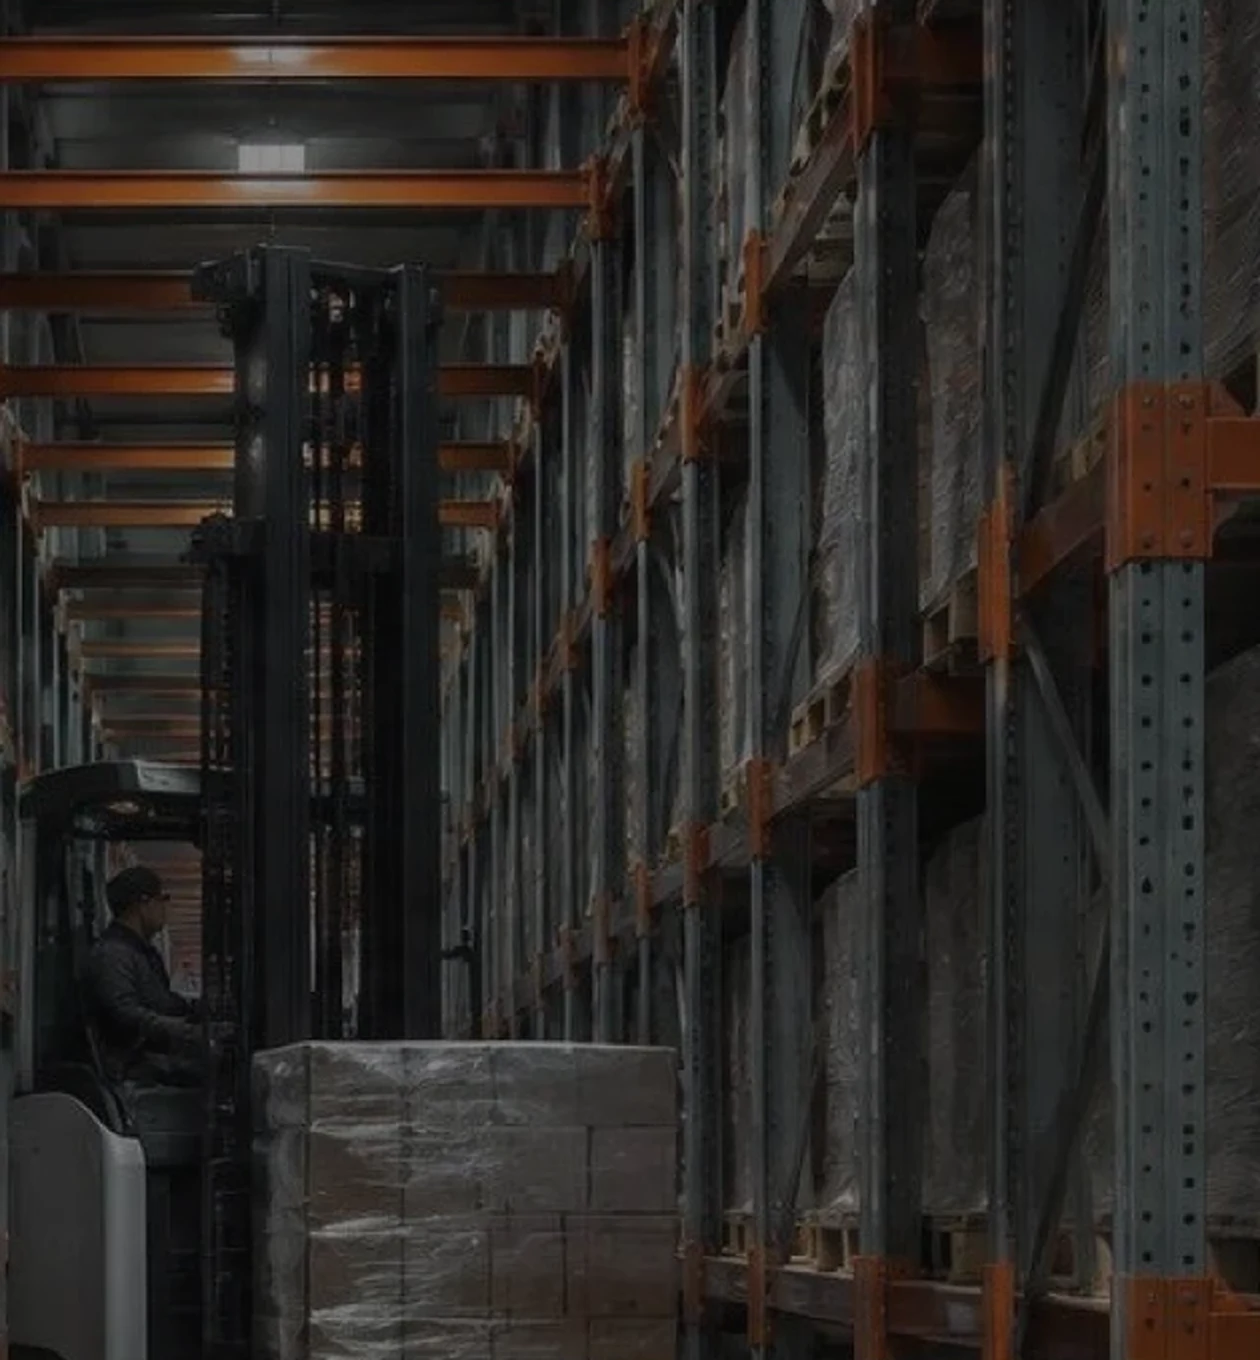
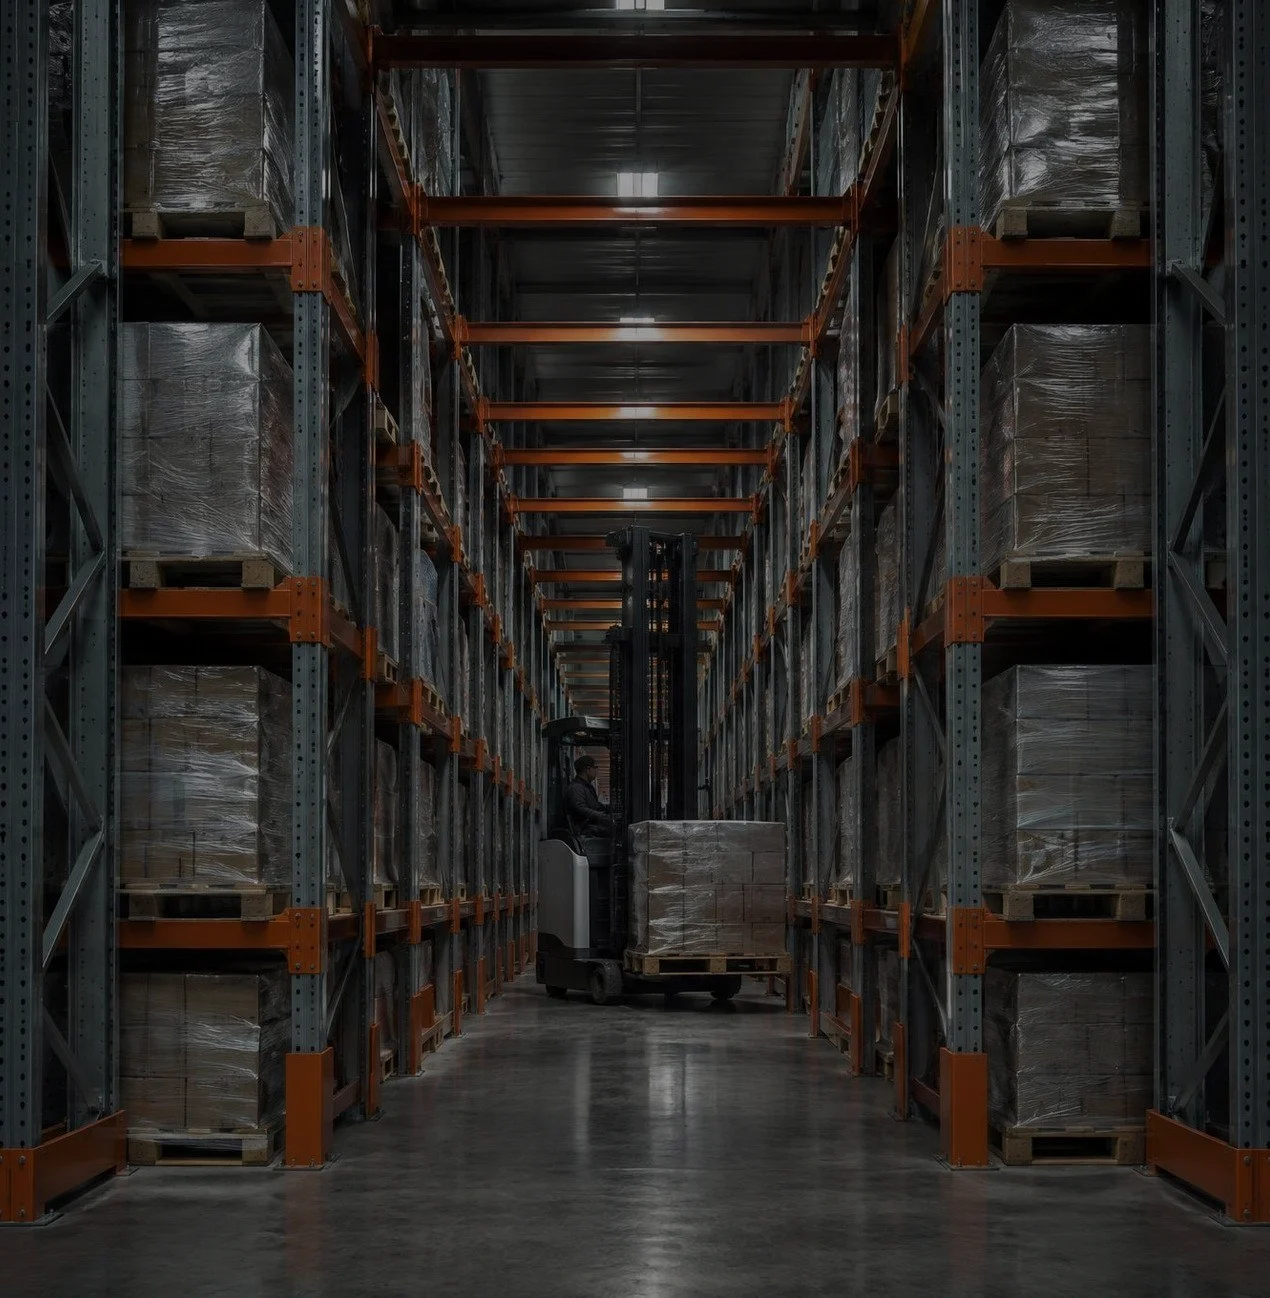
Глубинные стеллажи: фото главного экрана в высоком качестве

diff --git a/glubinnye-stellazhi.html b/glubinnye-stellazhi.html
@@ -120,7 +120,7 @@
 </header>
 
 <main>
-  <section class="m-hero rk-hero dp-hero" style="--rk-hero:url(../img/deep/hero.webp?v=2);--rk-w:800px;--rk-h:600px;--rk-ml:-200px;--rk-top:0px">
+  <section class="m-hero rk-hero dp-hero" style="--rk-hero:url(../img/deep/hero.webp?v=3);--rk-w:800px;--rk-h:600px;--rk-ml:-200px;--rk-top:0px">
     <div class="container m-hero__inner">
       <div class="m-hero__main">
         <p class="pill"><img class="pill__icon" src="img/icons/logo-mark.svg" width="16" height="18" alt="">Официальный дилер стеллажных систем</p>
